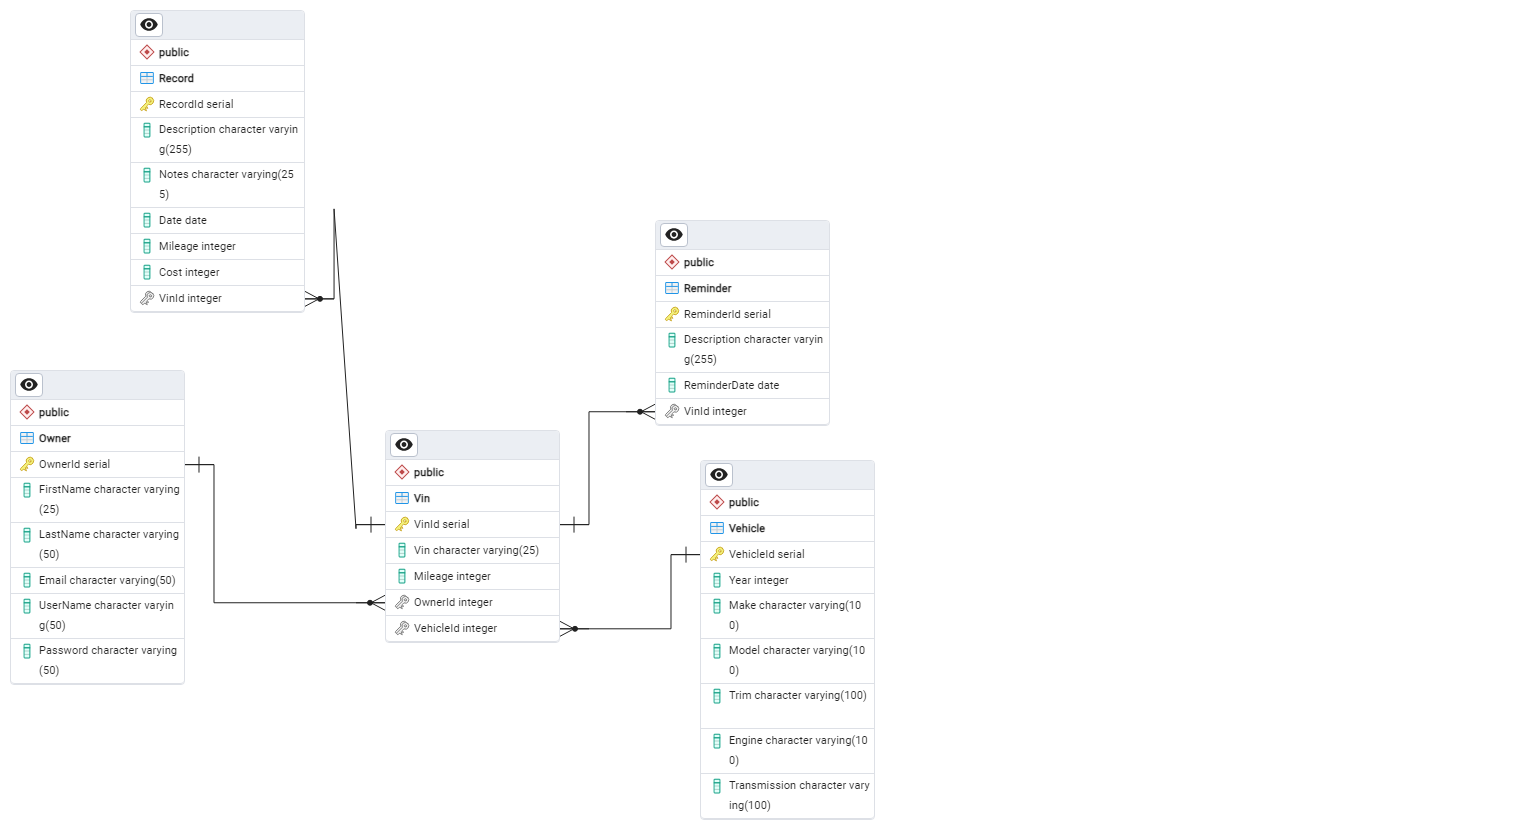
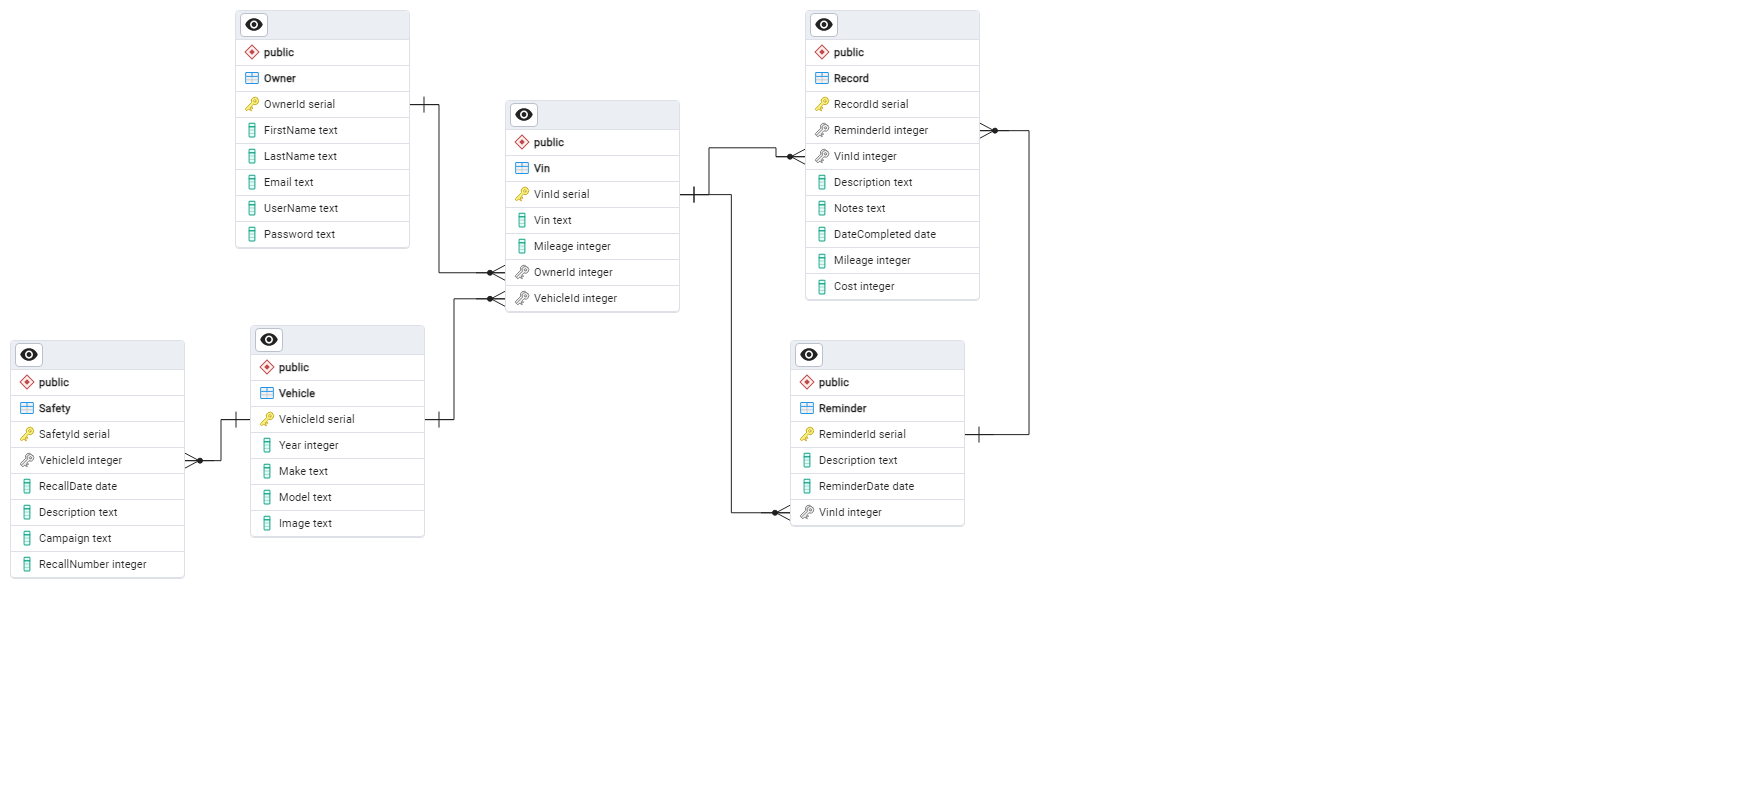
Changed ERD to better reflect scope of project and logically organize entities by responsibility. Modified user stories to better fit allotted timeframe for project.

diff --git a/Planning/UserStories.md b/Planning/UserStories.md
@@ -25,18 +25,15 @@
 
 ### Account Summary Page:
 
-    - Upon logging in, I am directed to the account summary page.
+    Upon logging in, I am directed to the account summary page.
 
     The page includes:
-    - A section displaying recent Technical Service Bulletins (TSBs) and safety bulletins.
-    - Cards representing my vehicles, each with a picture, year/make/model, and buttons to add/edit a vehicle.
+    - Cards representing my vehicles, each with a picture, year/make/model, and buttons to add/edit a vehicle. With an option to view a detailed vehicle summary page.
     - An option to find nearby repair services.
-    - If I select “Services Near Me,” I am redirected to the services near me page.
-    - Choosing “Add a Vehicle” redirects me to the Add a Vehicle Page.
 
 ### Services Near Me Page:
 
-    - As a user, when I select “Services Near Me,” I am directed to a dedicated page.
+    As a user, when I select “Services Near Me,” I am directed to a dedicated page.
 
     On this page:
     - I can enter my zipcode.
@@ -46,68 +43,57 @@
 
 ### Detailed Vehicle Summary Page:
 
-    - Clicking on a vehicle card takes me to a detailed summary page.
+    Clicking on a vehicle card takes me to a detailed summary page.
         The page displays:
-        - Year, make, model, and additional vehicle details.
-        - Recently posted TSBs or safety recalls.
-        - Any upcoming reminders
+        - Year, make, model, mileage, and a picure of the vehicle.
+        - Upcoming reminders.
 
     I see options to:
-    - Create reminders.
     - Update mileage.
     - Delete the vehicle.
-    - An option to lookup check engine light or other repair codes.
     - Navigate to the maintenance information page.
+    - Navigate to saftey recall information page.
 
 
 ### Maintenance Information Page:
 
-    - If I choose the maintenance option:
+    If I choose the maintenance option:
         - A picture of the vehicle, along with its year, make, model, and VIN, appears at the top.
-        - A list of recommended maintenance items (within ±10,000 miles of the current mileage) is displayed, along with approximate pricing and parts needed
-        - Beneath, I find outstanding recalls and service bulletins.
+        - A list of non-complete maintenance items (+- 10,000mi) is displayed, along with approximate pricing.
+        - A list of completed maintenance items with the completed date and mileage.
 
     I see options to:
-        - Add a maintenance record.
-        - View past repair logs.
-        - Create reminders for upcoming maintenance tasks.
+        - Click next to an item to add a maintenance record for that item.
+        - Click next to an item to add a reminder for that item.
+        - Create a custom reminder.
+        - Add a custom maintainence record.
 
-    Adding a Maintenance Record:
-        - I see suggested maintenance items (within ±10,000 miles).
-        - I can check a box next to an item to add it as a completed maintainence item.
-        - I enter the repair mileage and optionally the cost.
-        - If the desired item isn’t in the list, I can manually add details (description, notes, price, mileage).
-        - After selection, I receive a confirmation summary and can either confirm or edit my choices.
+### Add a Maintenance Item:
+
+        If I naviagted here by clicking button next to a non-complete maintenance record I see:
+        - Summary Details of record I clicked.
+
+        If I navigated here by clicking custom maintenance item:
+        - I can manually add details (description, notes, price, mileage).
+
+        After selection, I receive a confirmation summary and can either confirm or edit my choices.
         
-### Create Maintenance Reminder:
+### Add a Maintenance Reminder:
 
-    If I navigate to the “Create Reminder” page:
-
-    - I see a list of upcoming maintenance tasks.
-    - I can select specific maintenance items by checking checkboxes next to them.
+    If I navigate here by clicking next to a maintenance item:
+    - I see the details of the maintenance item with the option to choose reminder preferences. (see below)
 
     Reminder preferences:
-    
-    Option A: Custom Reminder Date
-    - I manually enter the date when I would like to receive the reminder.
+        Option A: Custom Reminder Date
+        - I manually enter the date when I would like to receive the reminder.
+        Option B: Default Estimation
+        - I choose the default option, allowing the application to estimate the reminder date based on the maintenance schedule.
 
-    Option B: Default Estimation
-    - I choose the default option, allowing the application to estimate the reminder date based on the maintenance schedule.
+    If I navigated here by clicking the add a custom reminder button:
+    - I can enter my own custom reminder information.
 
     Upon submitting the form, I receive a confirmation page showing the details of the reminder. I can confirm or cancel and am navigated back to the vehicle summary page.
 
-### View Maintenance Log:
+### Safety Recall Page:
 
-    - When I select this option:
-    - I see a table displaying maintenance records from latest to earliest.
-
-    Each record includes:
-    - Description of the maintenance task.
-    - Mileage when the task was performed.
-    - Date of the maintenance.
-    - Cost incurred.
-    - For each record, I have the option to:
-    - Edit the record, which navigates me to a form similar to adding a new repair.
-    - Delete the record, which displays a confirmation summary without a form.
-
-
+    If I navigate to the safety recall page, I will see a list of the safety recalls for the specific vehicle
